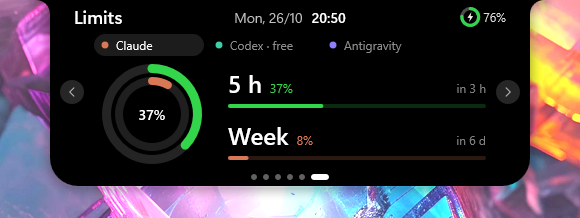
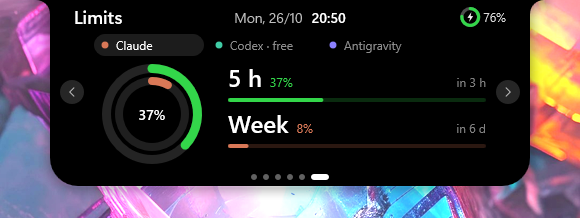
fix(usage): with two limits the rows are 46 apart (were 52) so the note about an old reading has its own line under the second bar instead of sitting on it; Claude Limits pictures regenerated

Changed region(s): [[0.3724, 0.3028, 0.8379, 0.4954], [0.3724, 0.5229, 0.8379, 0.6881], [0.3724, 0.7156, 0.8379, 0.7431]]

diff --git a/src/render/usage_page.rs b/src/render/usage_page.rs
@@ -134,7 +134,8 @@ impl Renderer {
                 // A reading the app made a while ago says so: what it shows now may be further on.
                 let stale = self.usage.updated(APPS[tab]).filter(|&at| now - at > APPS[tab].stale_after());
                 for (n, bar) in bars.iter().enumerate() {
-                    let y = (if bars.len() == 1 { 84.0 } else { 70.0 + n as f32 * 52.0 }) * s;
+                    // Two rows leave the 20 px under the second bar free for the note about an old reading (46 apart, not 52).
+                    let y = (if bars.len() == 1 { 84.0 } else { 64.0 + n as f32 * 46.0 }) * s;
                     let (_, window) = split_label(&bar.label);
                     let tone = if n == 0 { ring_colour(bar.used) } else { k };
                     text(window, F_BIG, rect(x0, y - 4.0 * s, cr, y + 30.0 * s), lead, grey(1.0, a))?;
